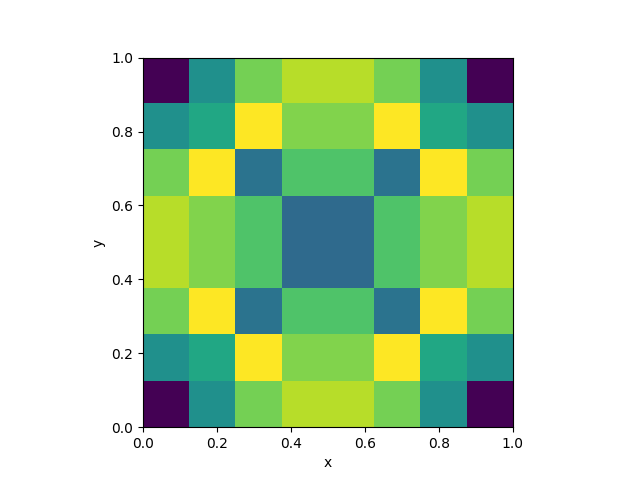
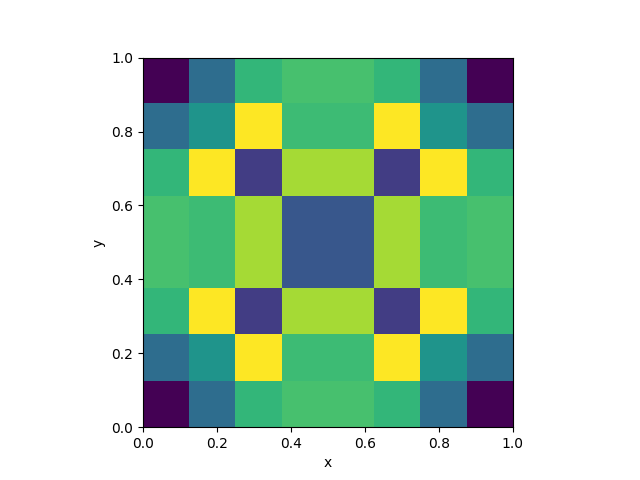
boundary control fixes

diff --git a/programs/src/boundary_control.py b/programs/src/boundary_control.py
@@ -350,21 +350,12 @@ def solve_for_integrated_basis_boundaries() -> Tuple[np.ndarray, np.ndarray]:
                     for time_function in [
                             T
                             / (2 * np.pi * (basis_function_time_index + 1))
-                            * np.sin(
-                                2
-                                * np.pi
-                                * (basis_function_time_index + 1)
-                                * np.linspace(0, 2 * T, number_of_time_steps)
-                                / T
-                            ),
-                            T
-                            / (2 * np.pi * basis_function_time_index)
                             * (
                                 1
                                 - np.cos(
                                     2
                                     * np.pi
-                                    * basis_function_time_index
+                                    * (basis_function_time_index + 1)
                                     * np.linspace(
                                         0,
                                         2 * T,
@@ -372,6 +363,15 @@ def solve_for_integrated_basis_boundaries() -> Tuple[np.ndarray, np.ndarray]:
                                     )
                                     / T
                                 )
+                            ),
+                            T
+                            / (2 * np.pi * (basis_function_time_index + 1))
+                            * np.sin(
+                                2
+                                * np.pi
+                                * (basis_function_time_index + 1)
+                                * np.linspace(0, 2 * T, number_of_time_steps)
+                                / T
                             )
                             if basis_function_time_index
                             else np.linspace(0, 2 * T, number_of_time_steps),
